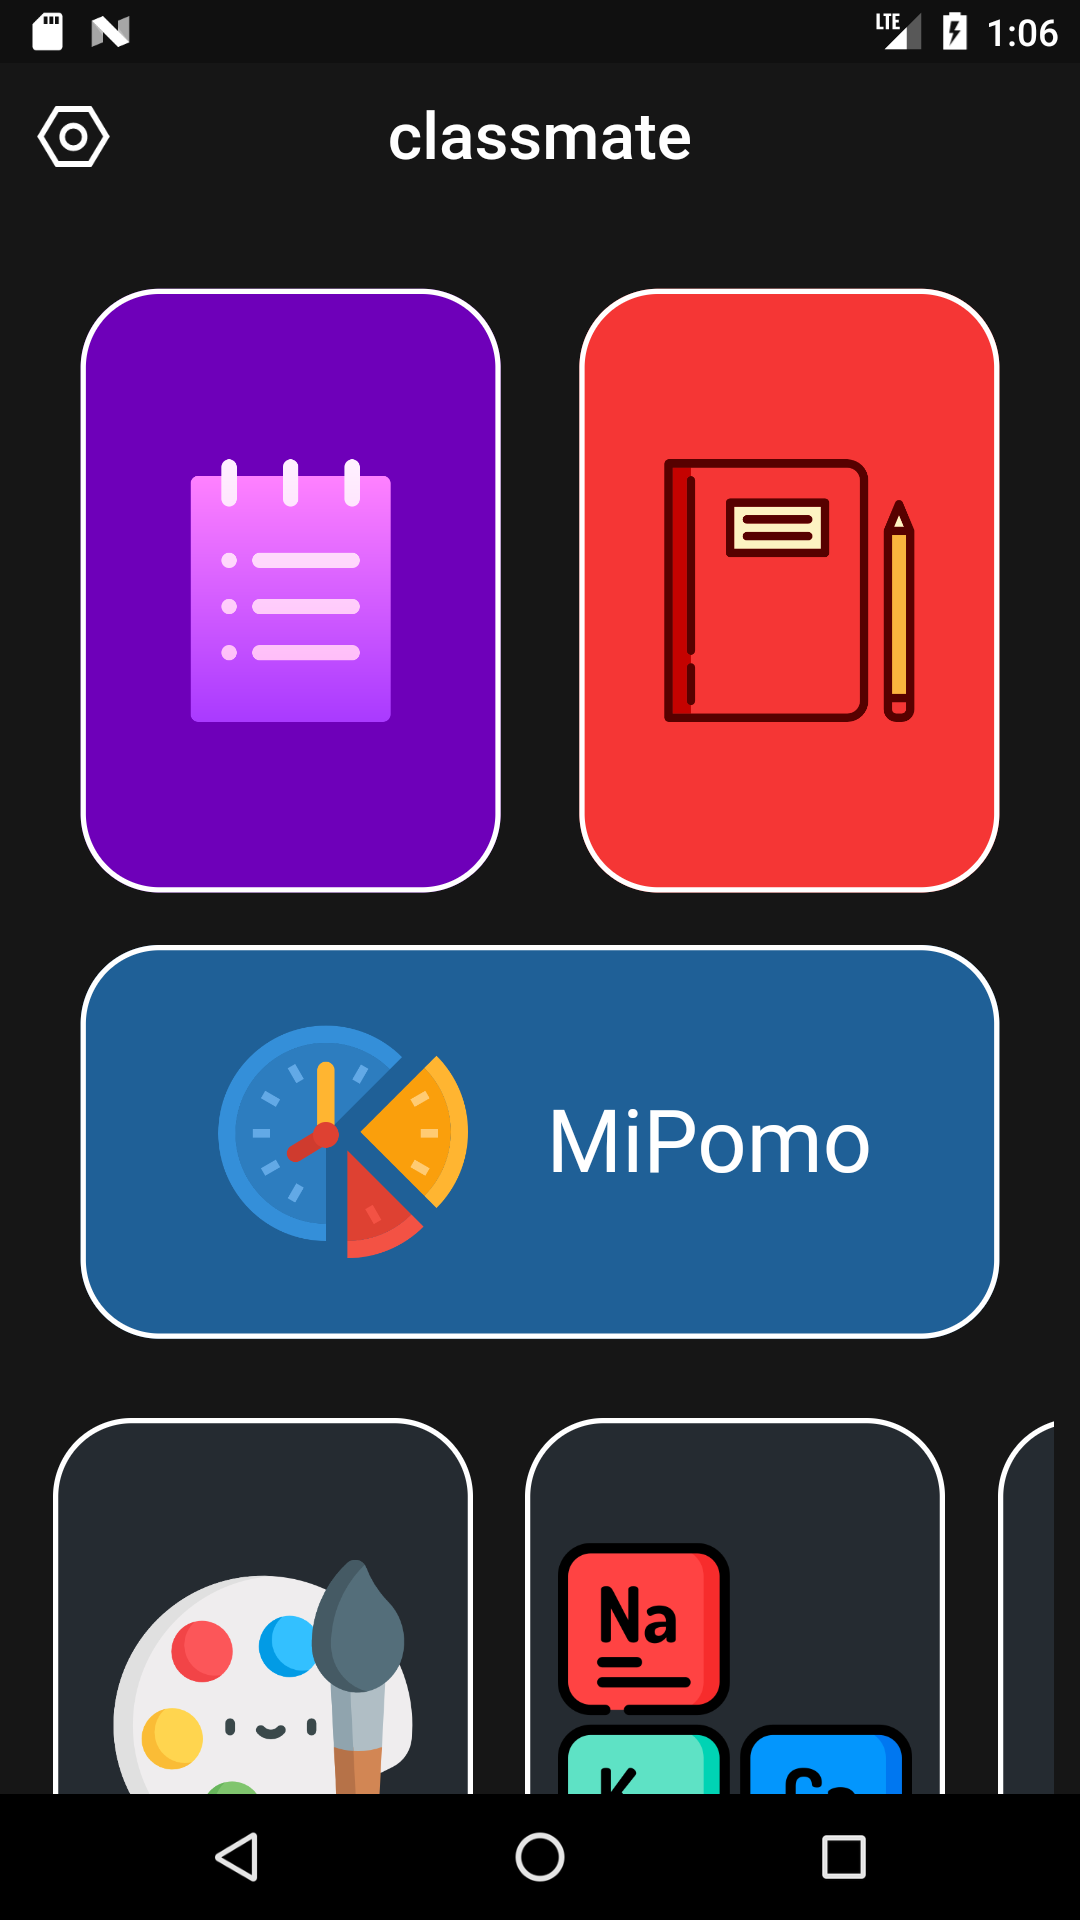
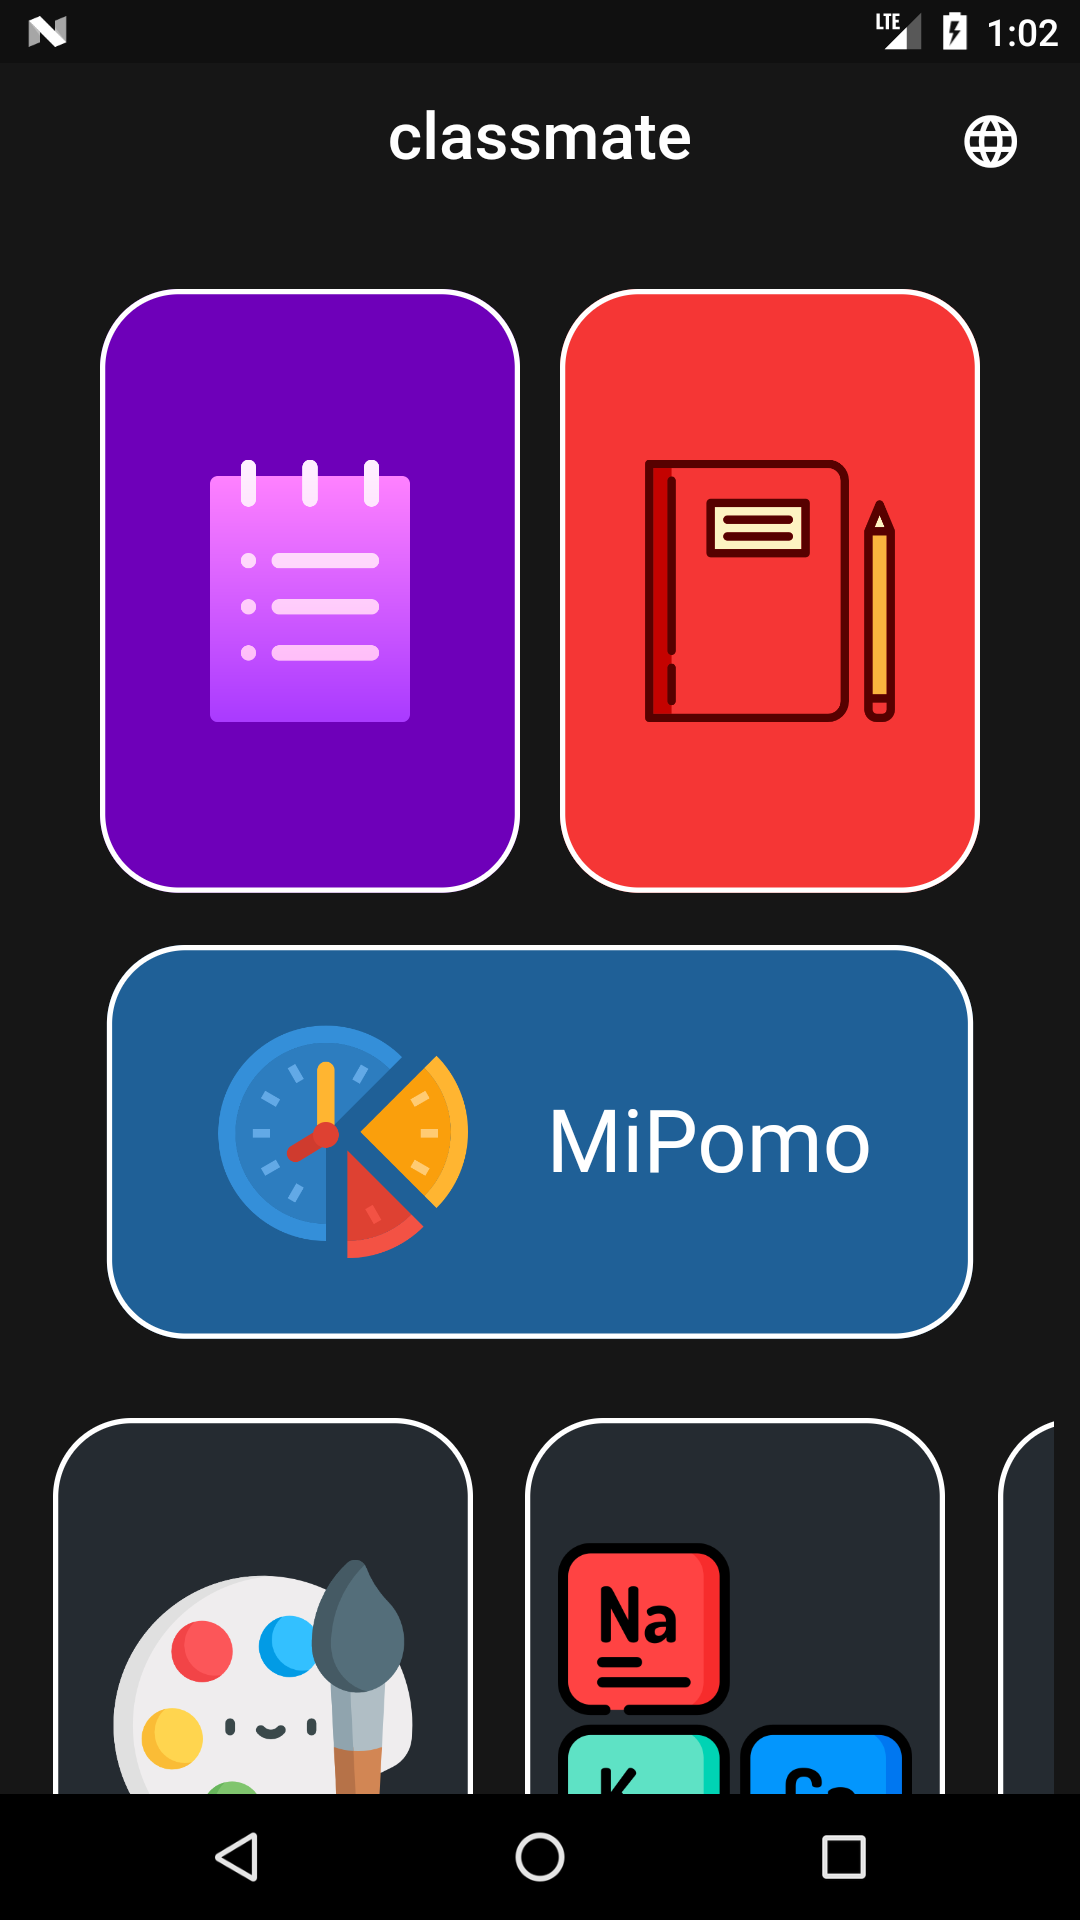
language supporting

diff --git a/README.md b/README.md
@@ -5,7 +5,7 @@ In the application we have prepared for students have : there are two sqflite da
 
 
 ## Screenshots
-<img src="https://github.com/theiskaa/myclassmate/blob/master/assets/screenshot/1.png" width="200">  <img src="https://github.com/theiskaa/myclassmate/blob/master/assets/screenshot/2.png" width="200">  <img src="https://github.com/theiskaa/myclassmate/blob/master/assets/screenshot/3.png" width="200">  <img src="https://github.com/theiskaa/myclassmate/blob/master/assets/screenshot/4.png" width="200">  <img src="https://github.com/theiskaa/myclassmate/blob/master/assets/screenshot/5.png" width="200">  <img src="https://github.com/theiskaa/myclassmate/blob/master/assets/screenshot/6.png" width="200">  <img src="https://github.com/theiskaa/myclassmate/blob/master/assets/screenshot/7.png" width="200">  <img src="https://github.com/theiskaa/myclassmate/blob/master/assets/screenshot/8.png" width="200">  <img src="https://github.com/theiskaa/myclassmate/blob/master/assets/screenshot/9.png" width="200">  <img src="https://github.com/theiskaa/myclassmate/blob/master/assets/screenshot/10.png" width="200">  <img src="https://github.com/theiskaa/myclassmate/blob/master/assets/screenshot/11.png" width="200">  <img src="https://github.com/theiskaa/myclassmate/blob/master/assets/screenshot/12.png" width="200">  <img src="https://github.com/theiskaa/myclassmate/blob/master/assets/screenshot/13.png" width="200">  <img src="https://github.com/theiskaa/myclassmate/blob/master/assets/screenshot/14.jpeg" width="200"> 
+<img src="https://github.com/theiskaa/myclassmate/blob/master/assets/screenshot/1.png" width="200">  <img src="https://github.com/theiskaa/myclassmate/blob/master/assets/screenshot/2.png" width="200">  <img src="https://github.com/theiskaa/myclassmate/blob/master/assets/screenshot/3.png" width="200">  <img src="https://github.com/theiskaa/myclassmate/blob/master/assets/screenshot/4.png" width="200">  <img src="https://github.com/theiskaa/myclassmate/blob/master/assets/screenshot/5.png" width="200">  <img src="https://github.com/theiskaa/myclassmate/blob/master/assets/screenshot/6.png" width="200">  <img src="https://github.com/theiskaa/myclassmate/blob/master/assets/screenshot/7.png" width="200">  <img src="https://github.com/theiskaa/myclassmate/blob/master/assets/screenshot/8.png" width="200">  <img src="https://github.com/theiskaa/myclassmate/blob/master/assets/screenshot/9.png" width="200">  <img src="https://github.com/theiskaa/myclassmate/blob/master/assets/screenshot/10.png" width="200">  <img src="https://github.com/theiskaa/myclassmate/blob/master/assets/screenshot/11.png" width="200">  <img src="https://github.com/theiskaa/myclassmate/blob/master/assets/screenshot/12.png" width="200">  <img src="https://github.com/theiskaa/myclassmate/blob/master/assets/screenshot/13.png" width="200">  <img src="https://github.com/theiskaa/myclassmate/blob/master/assets/screenshot/14.jpeg" width="200"> <img src="https://github.com/theiskaa/myclassmate/blob/master/assets/screenshot/15.jpeg" width="200"> 
 
 
 ## Packages i use:
